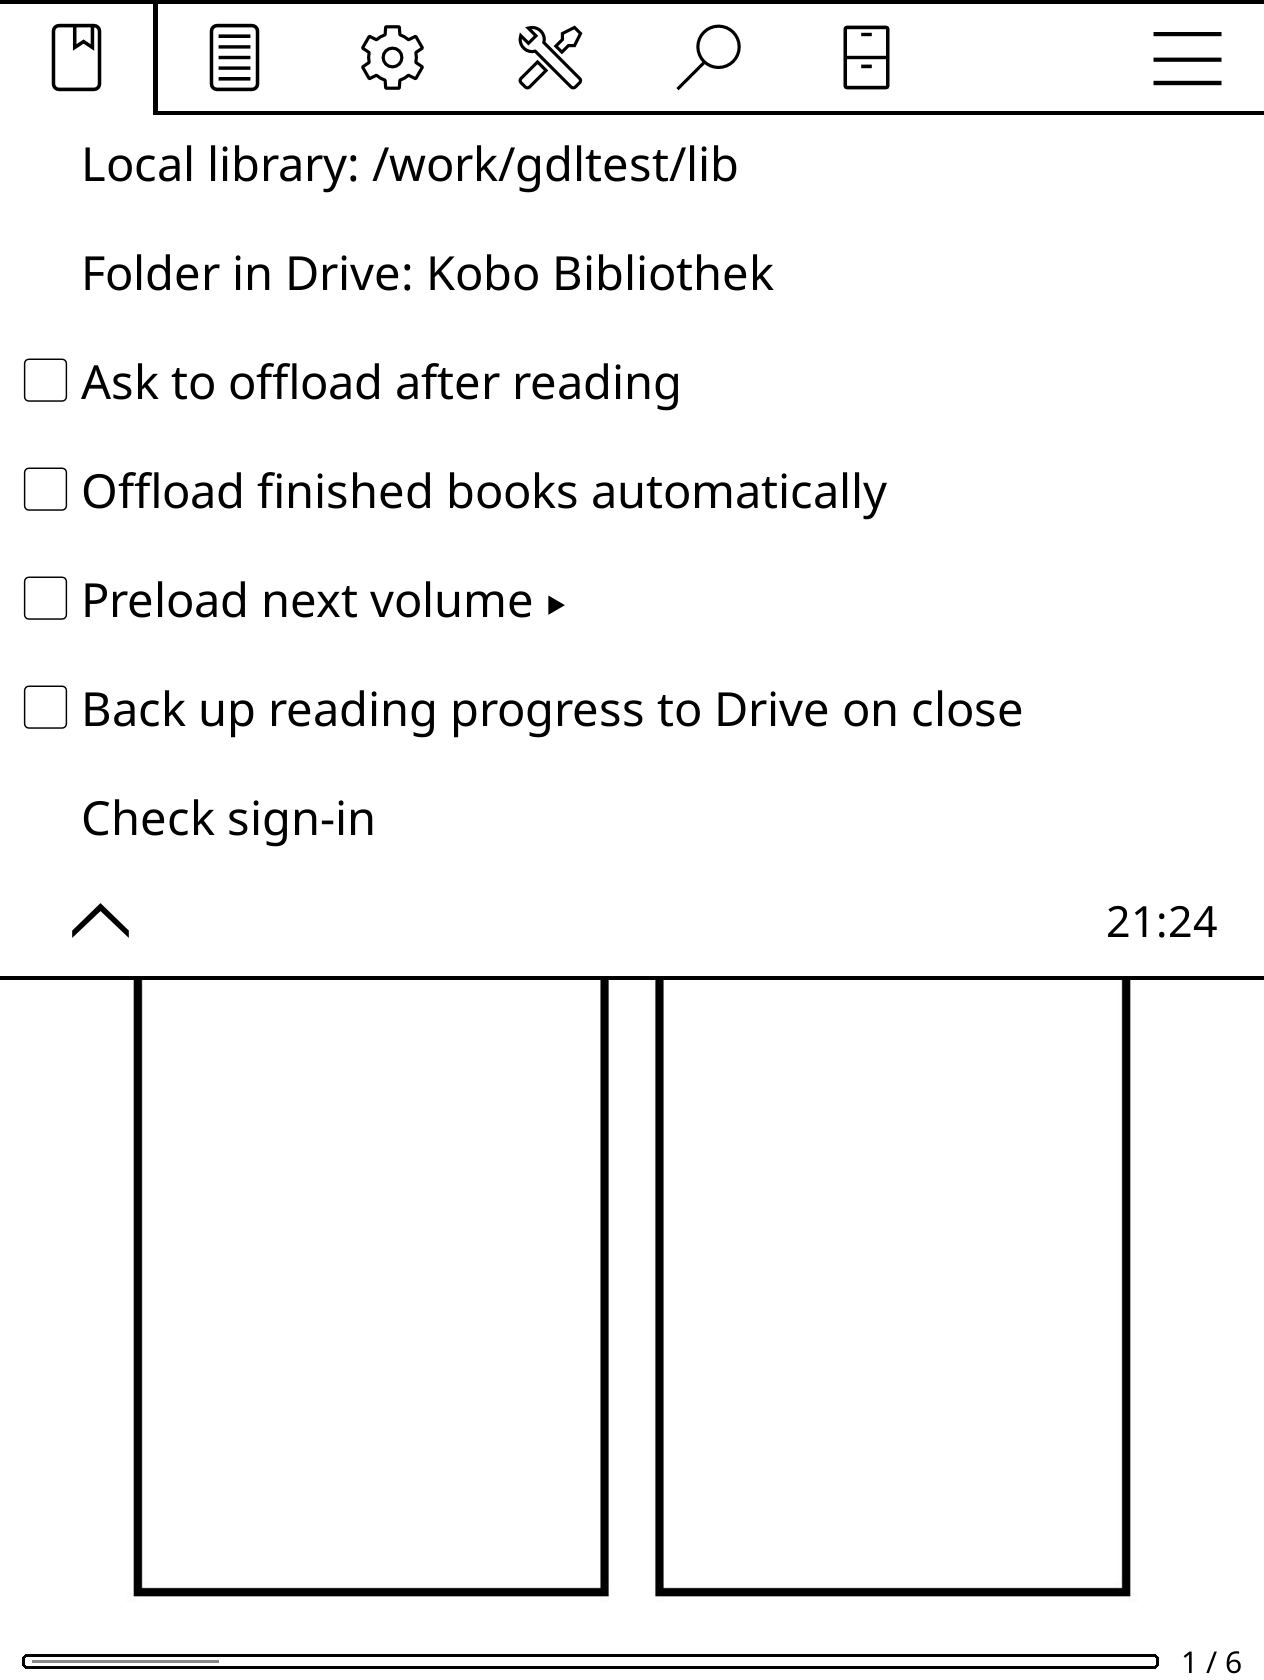
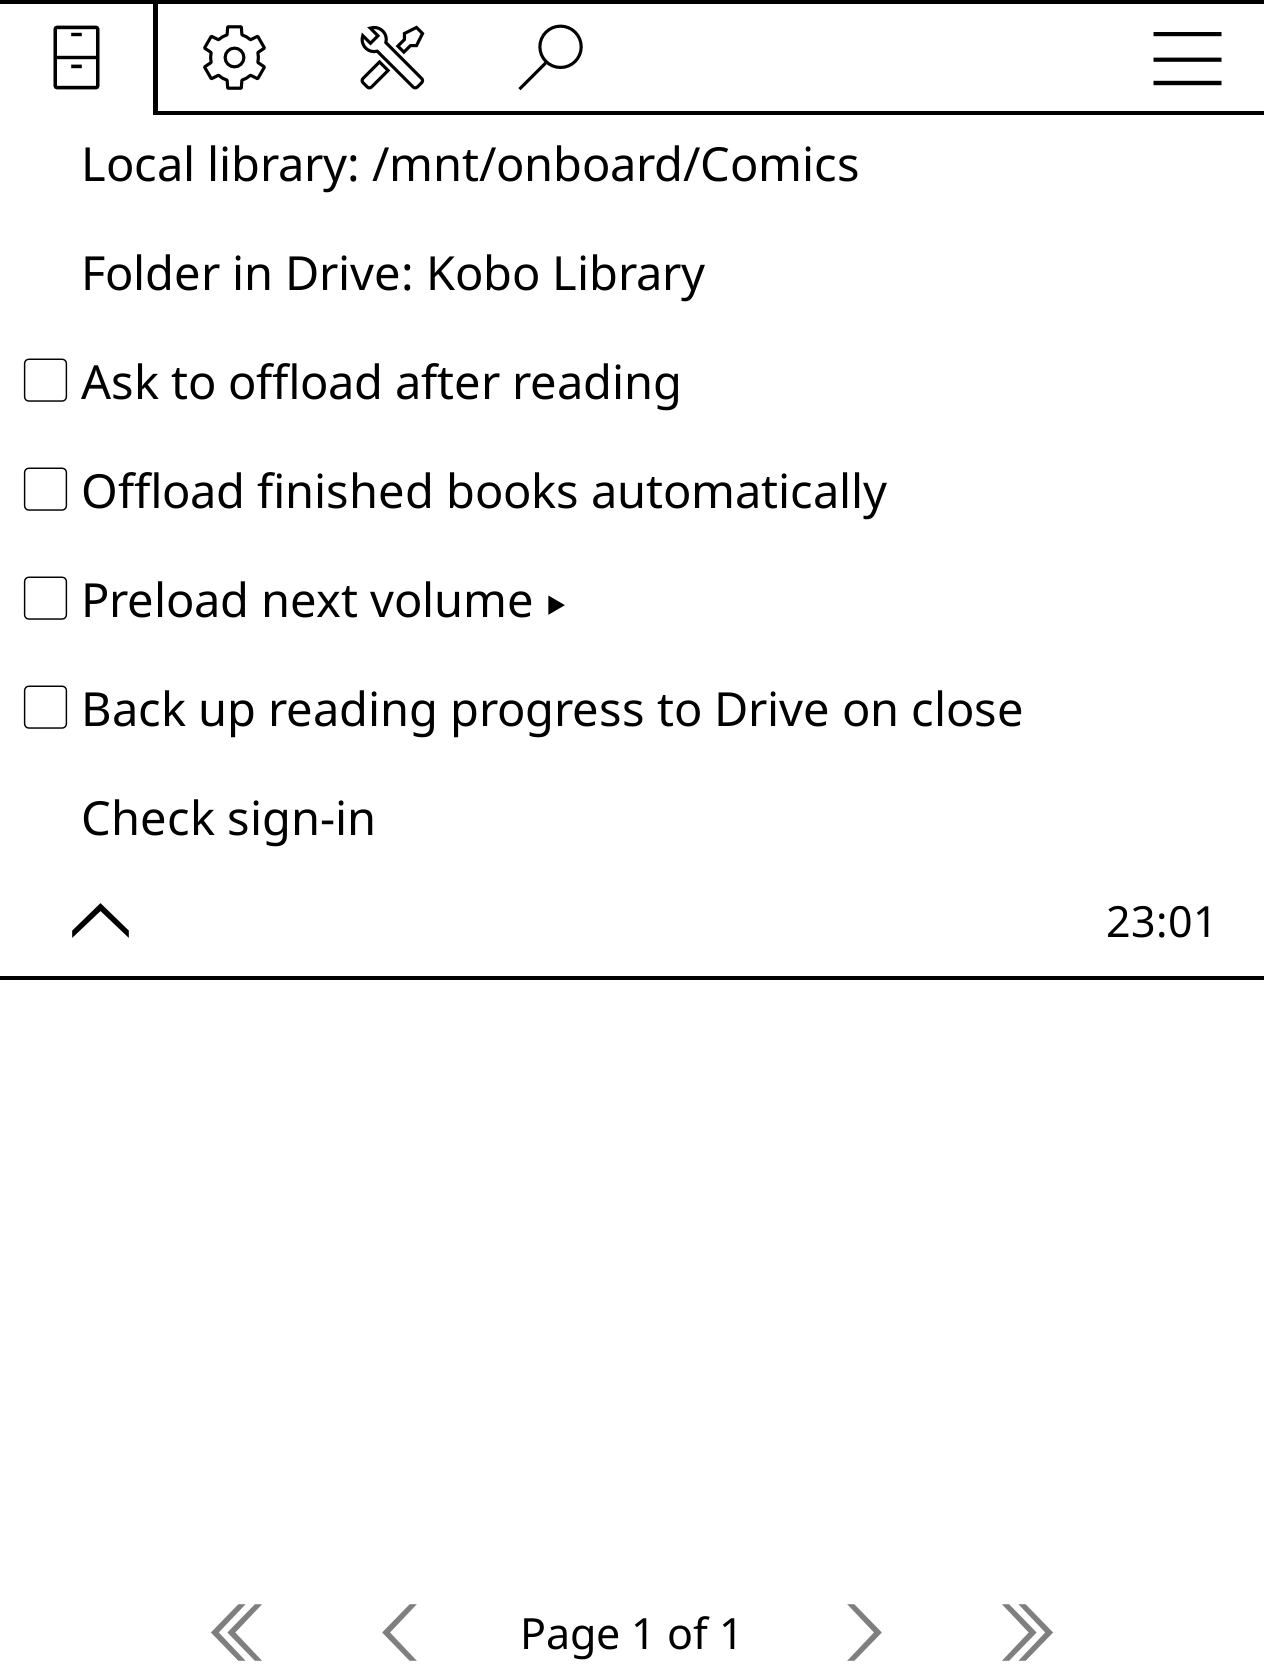
Screenshots, Sprachhinweis, deutsche Kurzbeschreibung, Zeile "von Akrota und Claude"

diff --git a/README.md b/README.md
@@ -2,12 +2,24 @@
 
 *Deutsch: [README.de.md](README.de.md)*
 
+<!-- byline -->
+A plugin by **Akrota and Claude**.
+
+<!-- lang-note -->
+*Works in **English and German**: menus and texts follow KOReader's language. A German description is at the bottom of this page.*
+
 Google Drive as a cloud library: move books and comics off the device and download them again when needed. Reading progress and your own metadata stay intact.
 
 ## Screenshots
 
-<img src="docs/screenshots/menu.png" width="320" alt="Drive Library menu"> 
-<img src="docs/screenshots/settings.png" width="320" alt="Settings"> 
+*The screenshots show the English interface; in a German KOReader the texts are German.*
+
+<table>
+<tr><td align="center" valign="top" width="33%"><img src="docs/screenshots/menu.png" width="260" alt="Drive Library menu"><br><sub>Drive Library menu</sub></td><td align="center" valign="top" width="33%"><img src="docs/screenshots/not-signed-in.png" width="260" alt="Message while not signed in yet"><br><sub>Message while not signed in yet</sub></td><td align="center" valign="top" width="33%"><img src="docs/screenshots/how-it-works.png" width="260" alt="Help text for download, offload and background jobs"><br><sub>Help text for download, offload and background jobs</sub></td></tr>
+<tr><td align="center" valign="top" width="33%"><img src="docs/screenshots/cloud-library.png" width="260" alt="Cloud library: the Drive folder"><br><sub>Cloud library: the Drive folder</sub></td><td align="center" valign="top" width="33%"><img src="docs/screenshots/cloud-folder.png" width="260" alt="A series: on the device (check mark) or only in the cloud (cloud icon)"><br><sub>A series: on the device (check mark) or only in the cloud (cloud icon)</sub></td><td align="center" valign="top" width="33%"><img src="docs/screenshots/cloud-select.png" width="260" alt="Selection mode: download selected"><br><sub>Selection mode: download selected</sub></td></tr>
+<tr><td align="center" valign="top" width="33%"><img src="docs/screenshots/offload-confirm.png" width="260" alt="Confirmation before moving a book to the cloud"><br><sub>Confirmation before moving a book to the cloud</sub></td><td align="center" valign="top" width="33%"><img src="docs/screenshots/progress.png" width="260" alt="Status line while uploading"><br><sub>Status line while uploading</sub></td><td align="center" valign="top" width="33%"><img src="docs/screenshots/settings.png" width="260" alt="Settings"><br><sub>Settings</sub></td></tr>
+<tr><td align="center" valign="top" width="33%"><img src="docs/screenshots/preload-menu.png" width="260" alt="Preload the next volume: off, 1, 2"><br><sub>Preload the next volume: off, 1, 2</sub></td></tr>
+</table>
 
 ## What it does
 
@@ -63,6 +75,44 @@ There is no warranty and no fixed support. Bug reports are welcome as an [issue]
 
 The idea of getting access through the OAuth Playground comes from [gdrive.koplugin](https://github.com/moohaad/gdrive.koplugin) by moohaad (MIT). No code was taken.
 
+## More plugins by Akrota and Claude
+
+- [Comic Display](https://github.com/Akrota/koreader-comic-display): Refresh against ghosting, dark borders and a clock for comics
+- [Levels / Tonwerte](https://github.com/Akrota/koreader-comic-levels): Tone curve for comics
+- [Comic Panel Zoom](https://github.com/Akrota/koreader-comic-panel-zoom): Panel-by-panel view (fork of JorgeTheFox's plugin)
+- [Comic Dual Page](https://github.com/Akrota/koreader-comic-dual-page): Double pages with detection (fork of KORComic)
+- [CBZ Converter](https://github.com/Akrota/koreader-cbz-converter): Convert comics, PDF and EPUB to CBZ on the device
+- [Folder to series](https://github.com/Akrota/koreader-folder-to-series): Comic folders to series with volume numbers
+- [Story Recall](https://github.com/Akrota/koreader-story-recall): Spoiler-free AI recap for books
+- [Guitar Tab Reader](https://github.com/Akrota/koreader-guitar-tab-reader): Guitar tabs and chords for e-ink
+- [Wi-Fi while charging](https://github.com/Akrota/koreader-wifi-while-charging): Keep Wi-Fi on while charging
+- [Zen page browser gesture](https://github.com/Akrota/koreader-zen-page-browser-gesture): Gesture for the ZenOS page browser
+
 ## License
 
 [MIT](LICENSE)
+
+---
+
+## Deutsch (Kurzbeschreibung)
+
+Google Drive als Cloud-Bibliothek: Bücher und Comics vom Gerät auslagern und bei Bedarf wieder herunterladen. Lesestand und eigene Angaben bleiben erhalten.
+
+
+### Was es macht
+
+- **In Cloud auslagern:** Lang auf ein Buch oder einen Ordner drücken. Das Plugin lädt die Datei hoch, falls sie noch fehlt, vergleicht die Prüfsumme und löscht sie erst danach vom Gerät.
+- **Cloud-Bibliothek:** Werkzeuge → Drive-Bibliothek. Zeigt den Drive-Ordner und bei jedem Buch, ob es nur in der Cloud (☁) oder auch auf dem Gerät (✓) liegt. Antippen lädt es herunter oder öffnet es.
+- **Mehrere auf einmal:** Im Auswahl-Modus Bücher markieren, dann Werkzeuge → Drive-Bibliothek → „Ausgewählte auslagern“ oder die Geste dafür.
+- **Optional:** Nach dem Schließen eines fertig gelesenen Buchs fragen, ob es ausgelagert werden soll.
+
+Der Ordner in Drive heißt standardmäßig `Kobo Bibliothek`. Seine Unterordner entsprechen denen der lokalen Bibliothek. Lädst du am PC selbst hoch, nimm dieselben Ordnernamen, dann erkennt das Plugin die Dateien und lädt sie nicht doppelt hoch.
+
+### Wichtig zu wissen
+
+- **Der `.sdr`-Ordner (Lesestand, eigene Titel, Notizen) geht beim Auslagern mit nach Drive** und bleibt zusätzlich als Sicherheitskopie in `.adds/koreader/drivelibrary/sdr/`. In der Bibliothek bleibt nichts zurück, leere Ordner verschwinden. Beim Herunterladen kommt die `.sdr` zurück; eine vorhandene `.sdr` wird nie überschrieben.
+- **Ausgelagerte Bücher fehlen in Bibliothek und Reihen**, bis du sie wieder herunterlädst.
+- **Es wird nie etwas überschrieben.** Liegt in Drive eine andere Datei mit demselben Namen, bleibt die lokale Datei liegen und du bekommst eine Meldung.
+- **Das Plugin braucht vollen Zugriff auf dein Drive**, sonst sieht es keine Dateien, die du im Browser hochlädst. Es arbeitet nur im gewählten Ordner, das stellt aber nur der Code des Plugins sicher, nicht Google. Geht das Gerät verloren: Zugriff unter myaccount.google.com/permissions entziehen.
+
+Die ausführliche deutsche Anleitung steht in der [README.de.md](README.de.md).

diff --git a/README.de.md b/README.de.md
@@ -2,12 +2,24 @@
 
 *English: [README.md](README.md)*
 
+<!-- byline -->
+Ein Plugin von **Akrota und Claude**.
+
+<!-- lang-note -->
+*Funktioniert auf **Deutsch und Englisch**: Menüs und Texte richten sich nach der KOReader-Sprache.*
+
 Google Drive als Cloud-Bibliothek: Bücher und Comics vom Gerät auslagern und bei Bedarf wieder herunterladen. Lesestand und eigene Angaben bleiben erhalten.
 
 ## Bildschirmfotos
 
-<img src="docs/screenshots/menu.png" width="320" alt="Drive Library menu"> 
-<img src="docs/screenshots/settings.png" width="320" alt="Settings"> 
+*Die Bildschirmfotos zeigen die englische Oberfläche; in einem deutschen KOReader sind die Texte deutsch.*
+
+<table>
+<tr><td align="center" valign="top" width="33%"><img src="docs/screenshots/menu.png" width="260" alt="Menü der Drive-Bibliothek"><br><sub>Menü der Drive-Bibliothek</sub></td><td align="center" valign="top" width="33%"><img src="docs/screenshots/not-signed-in.png" width="260" alt="Meldung, solange die Anmeldung fehlt"><br><sub>Meldung, solange die Anmeldung fehlt</sub></td><td align="center" valign="top" width="33%"><img src="docs/screenshots/how-it-works.png" width="260" alt="Hilfetext zu Herunterladen, Auslagern und Hintergrund-Aufträgen"><br><sub>Hilfetext zu Herunterladen, Auslagern und Hintergrund-Aufträgen</sub></td></tr>
+<tr><td align="center" valign="top" width="33%"><img src="docs/screenshots/cloud-library.png" width="260" alt="Cloud-Bibliothek: der Drive-Ordner"><br><sub>Cloud-Bibliothek: der Drive-Ordner</sub></td><td align="center" valign="top" width="33%"><img src="docs/screenshots/cloud-folder.png" width="260" alt="Eine Reihe: auf dem Gerät (Haken) oder nur in der Cloud (Wolke)"><br><sub>Eine Reihe: auf dem Gerät (Haken) oder nur in der Cloud (Wolke)</sub></td><td align="center" valign="top" width="33%"><img src="docs/screenshots/cloud-select.png" width="260" alt="Auswahl-Modus: Ausgewählte herunterladen"><br><sub>Auswahl-Modus: Ausgewählte herunterladen</sub></td></tr>
+<tr><td align="center" valign="top" width="33%"><img src="docs/screenshots/offload-confirm.png" width="260" alt="Rückfrage vor dem Auslagern eines Buchs"><br><sub>Rückfrage vor dem Auslagern eines Buchs</sub></td><td align="center" valign="top" width="33%"><img src="docs/screenshots/progress.png" width="260" alt="Statuszeile beim Hochladen"><br><sub>Statuszeile beim Hochladen</sub></td><td align="center" valign="top" width="33%"><img src="docs/screenshots/settings.png" width="260" alt="Einstellungen"><br><sub>Einstellungen</sub></td></tr>
+<tr><td align="center" valign="top" width="33%"><img src="docs/screenshots/preload-menu.png" width="260" alt="Nächsten Band vorladen: aus, 1, 2"><br><sub>Nächsten Band vorladen: aus, 1, 2</sub></td></tr>
+</table>
 
 ## Was es macht
 
@@ -62,6 +74,19 @@ Kobo Libra Colour mit KOReader 2026.07.1 und ZenOS. Die automatischen Tests lauf
 Der Code wurde vollständig von **Claude** geschrieben, einer KI von Anthropic (in Claude Code). Der Besitzer dieses Projekts hatte die Idee, hat das Plugin auf dem Kobo getestet und Rückmeldungen gegeben, aber keinen Code geschrieben.
 
 Es gibt keine Gewährleistung und keinen festen Support. Fehlermeldungen gern als [Issue](../../issues), bitte mit der `crash.log` aus dem KOReader-Ordner. **Vorsicht:** Das Plugin löscht Dateien vom Gerät (erst nach bestandener Prüfsumme). Probiere es zuerst mit Büchern, die du ersetzen kannst.
+
+## Weitere Plugins von Akrota und Claude
+
+- [Comic Display](https://github.com/Akrota/koreader-comic-display): Refresh gegen Ghosting, dunkle Ränder und Uhr für Comics
+- [Levels / Tonwerte](https://github.com/Akrota/koreader-comic-levels): Tonwertkurve für Comics
+- [Comic Panel Zoom](https://github.com/Akrota/koreader-comic-panel-zoom): Panel-für-Panel-Ansicht (Fork von JorgeTheFox)
+- [Comic Dual Page](https://github.com/Akrota/koreader-comic-dual-page): Doppelseiten mit Erkennung (Fork von KORComic)
+- [CBZ Converter](https://github.com/Akrota/koreader-cbz-converter): Comics, PDF und EPUB auf dem Gerät in CBZ umwandeln
+- [Folder to series](https://github.com/Akrota/koreader-folder-to-series): Comic-Ordner zu Reihen mit Bandnummern
+- [Story Recall](https://github.com/Akrota/koreader-story-recall): Spoilerfreier KI-Rückblick auf Bücher
+- [Guitar Tab Reader](https://github.com/Akrota/koreader-guitar-tab-reader): Gitarren-Tabs und Chords für E-Ink
+- [Wi-Fi while charging](https://github.com/Akrota/koreader-wifi-while-charging): WLAN anlassen, solange das Gerät lädt
+- [Zen page browser gesture](https://github.com/Akrota/koreader-zen-page-browser-gesture): Geste für den ZenOS-Seitenbrowser
 
 ## Lizenz
 
